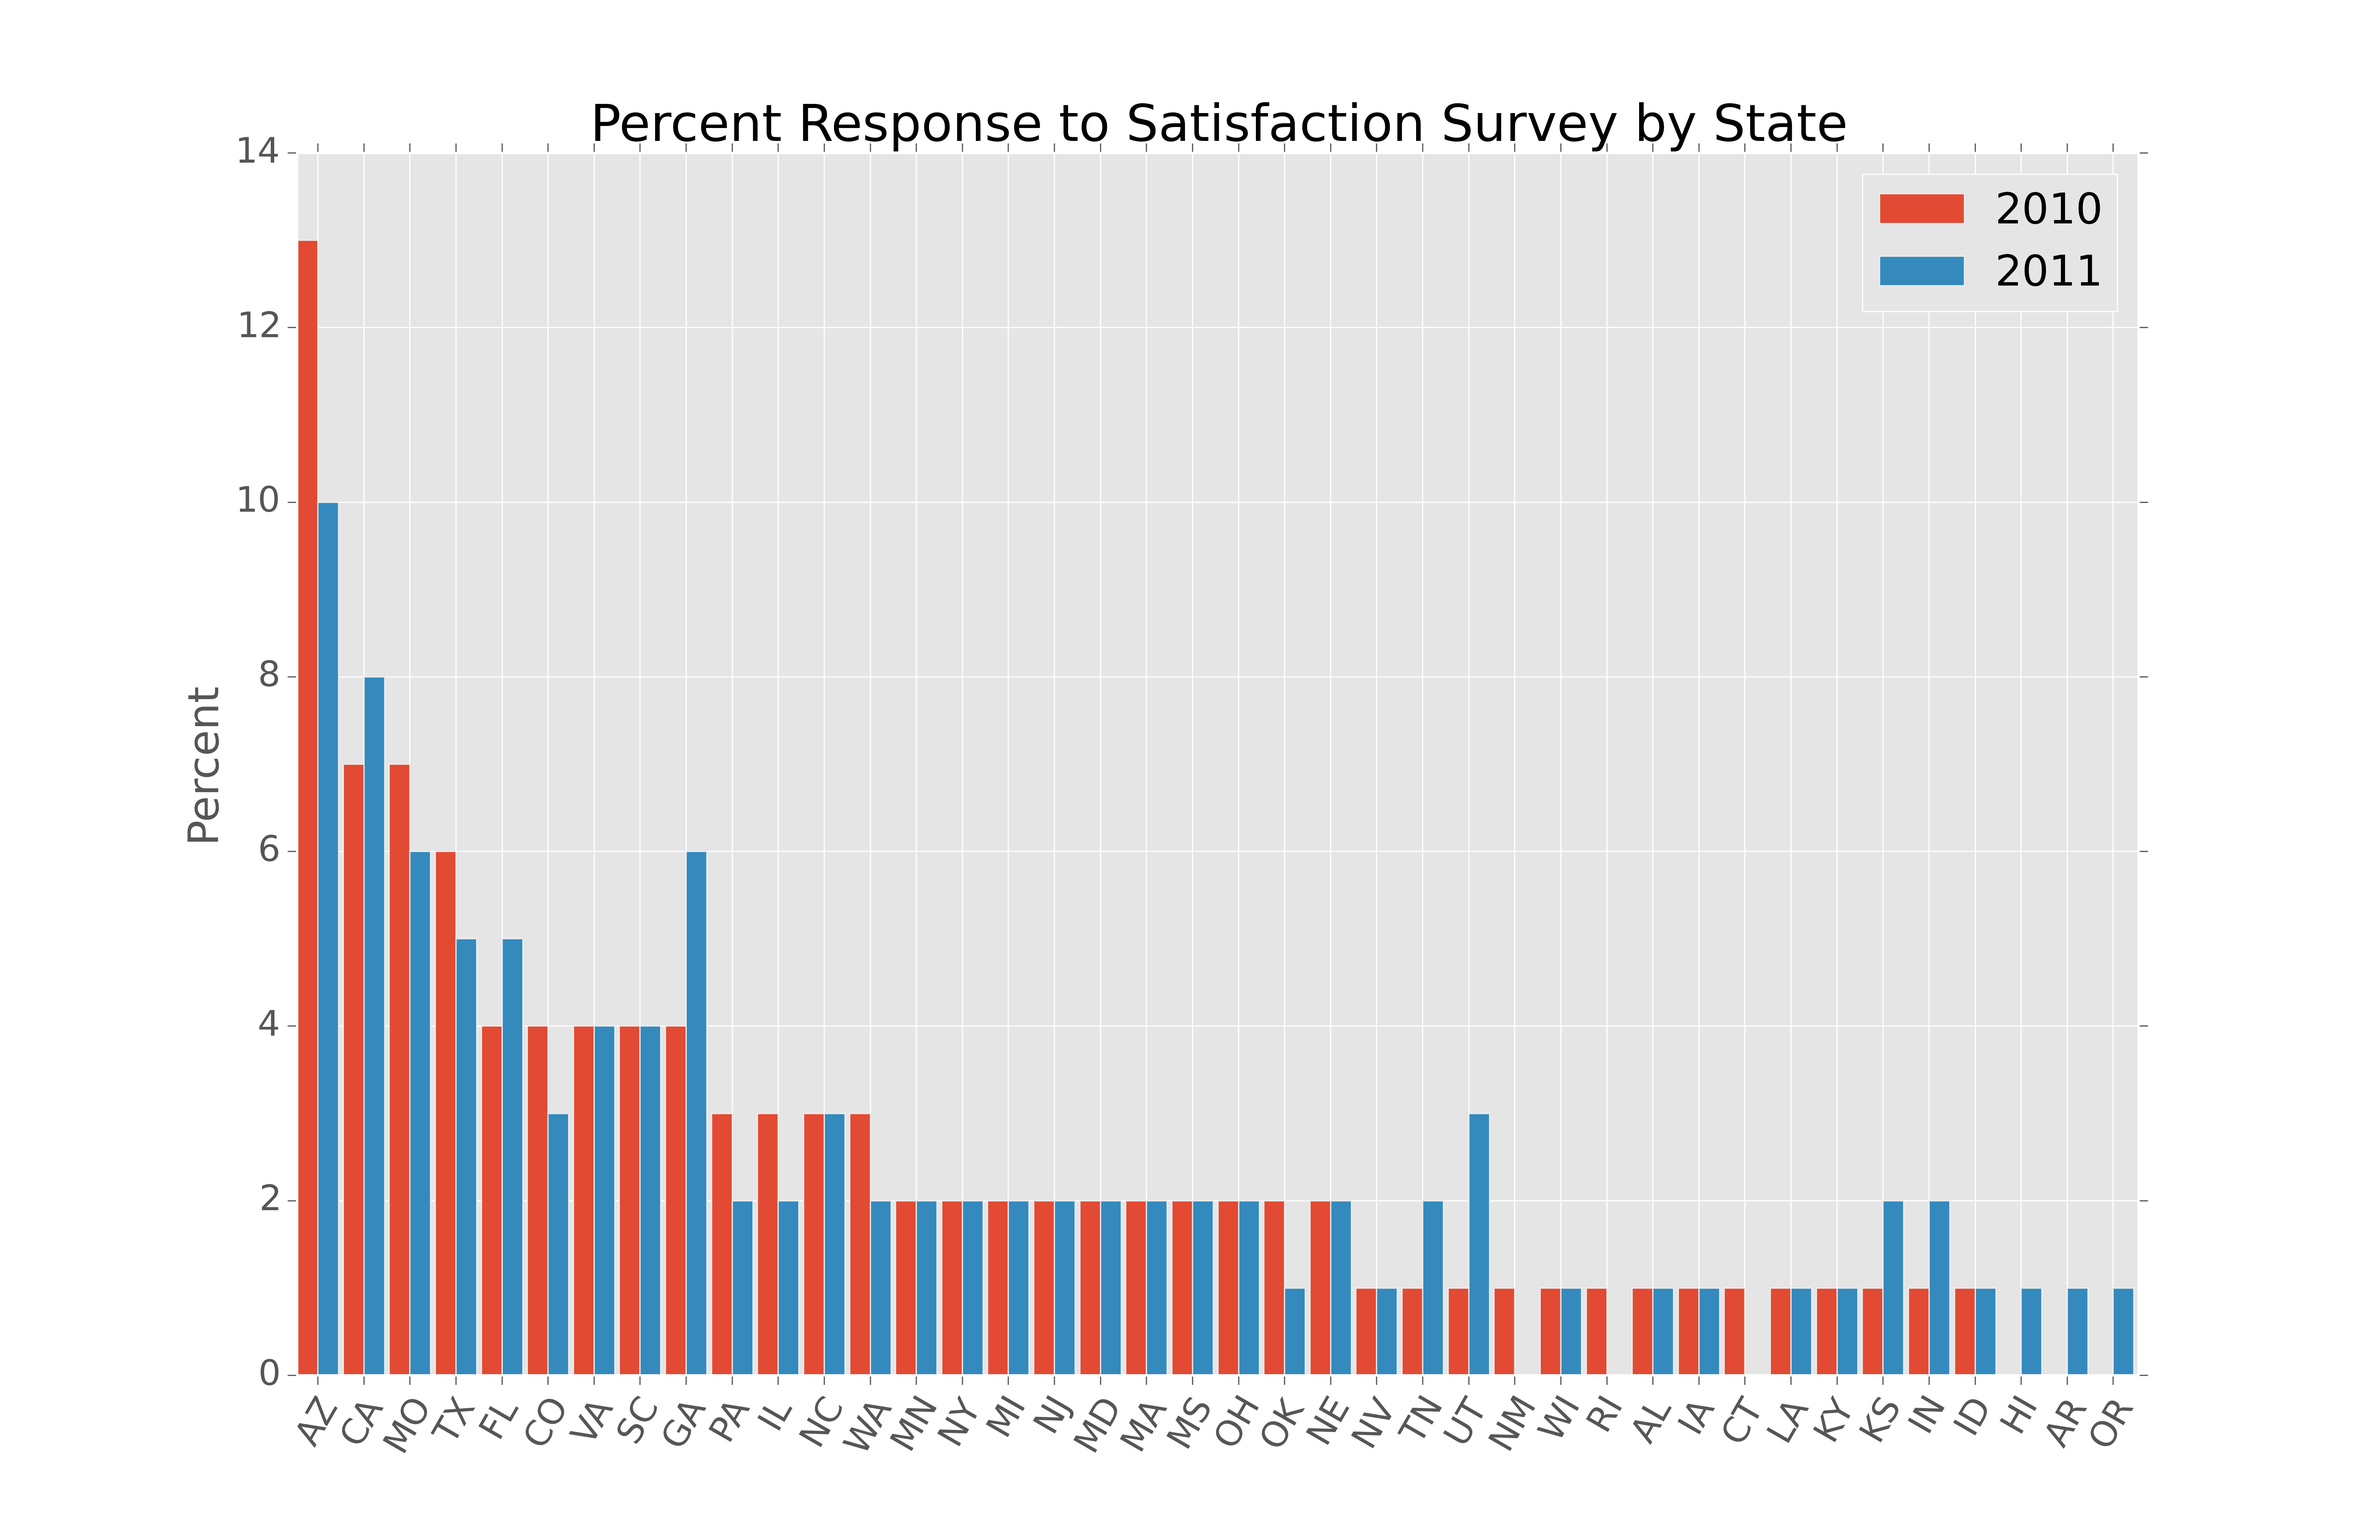
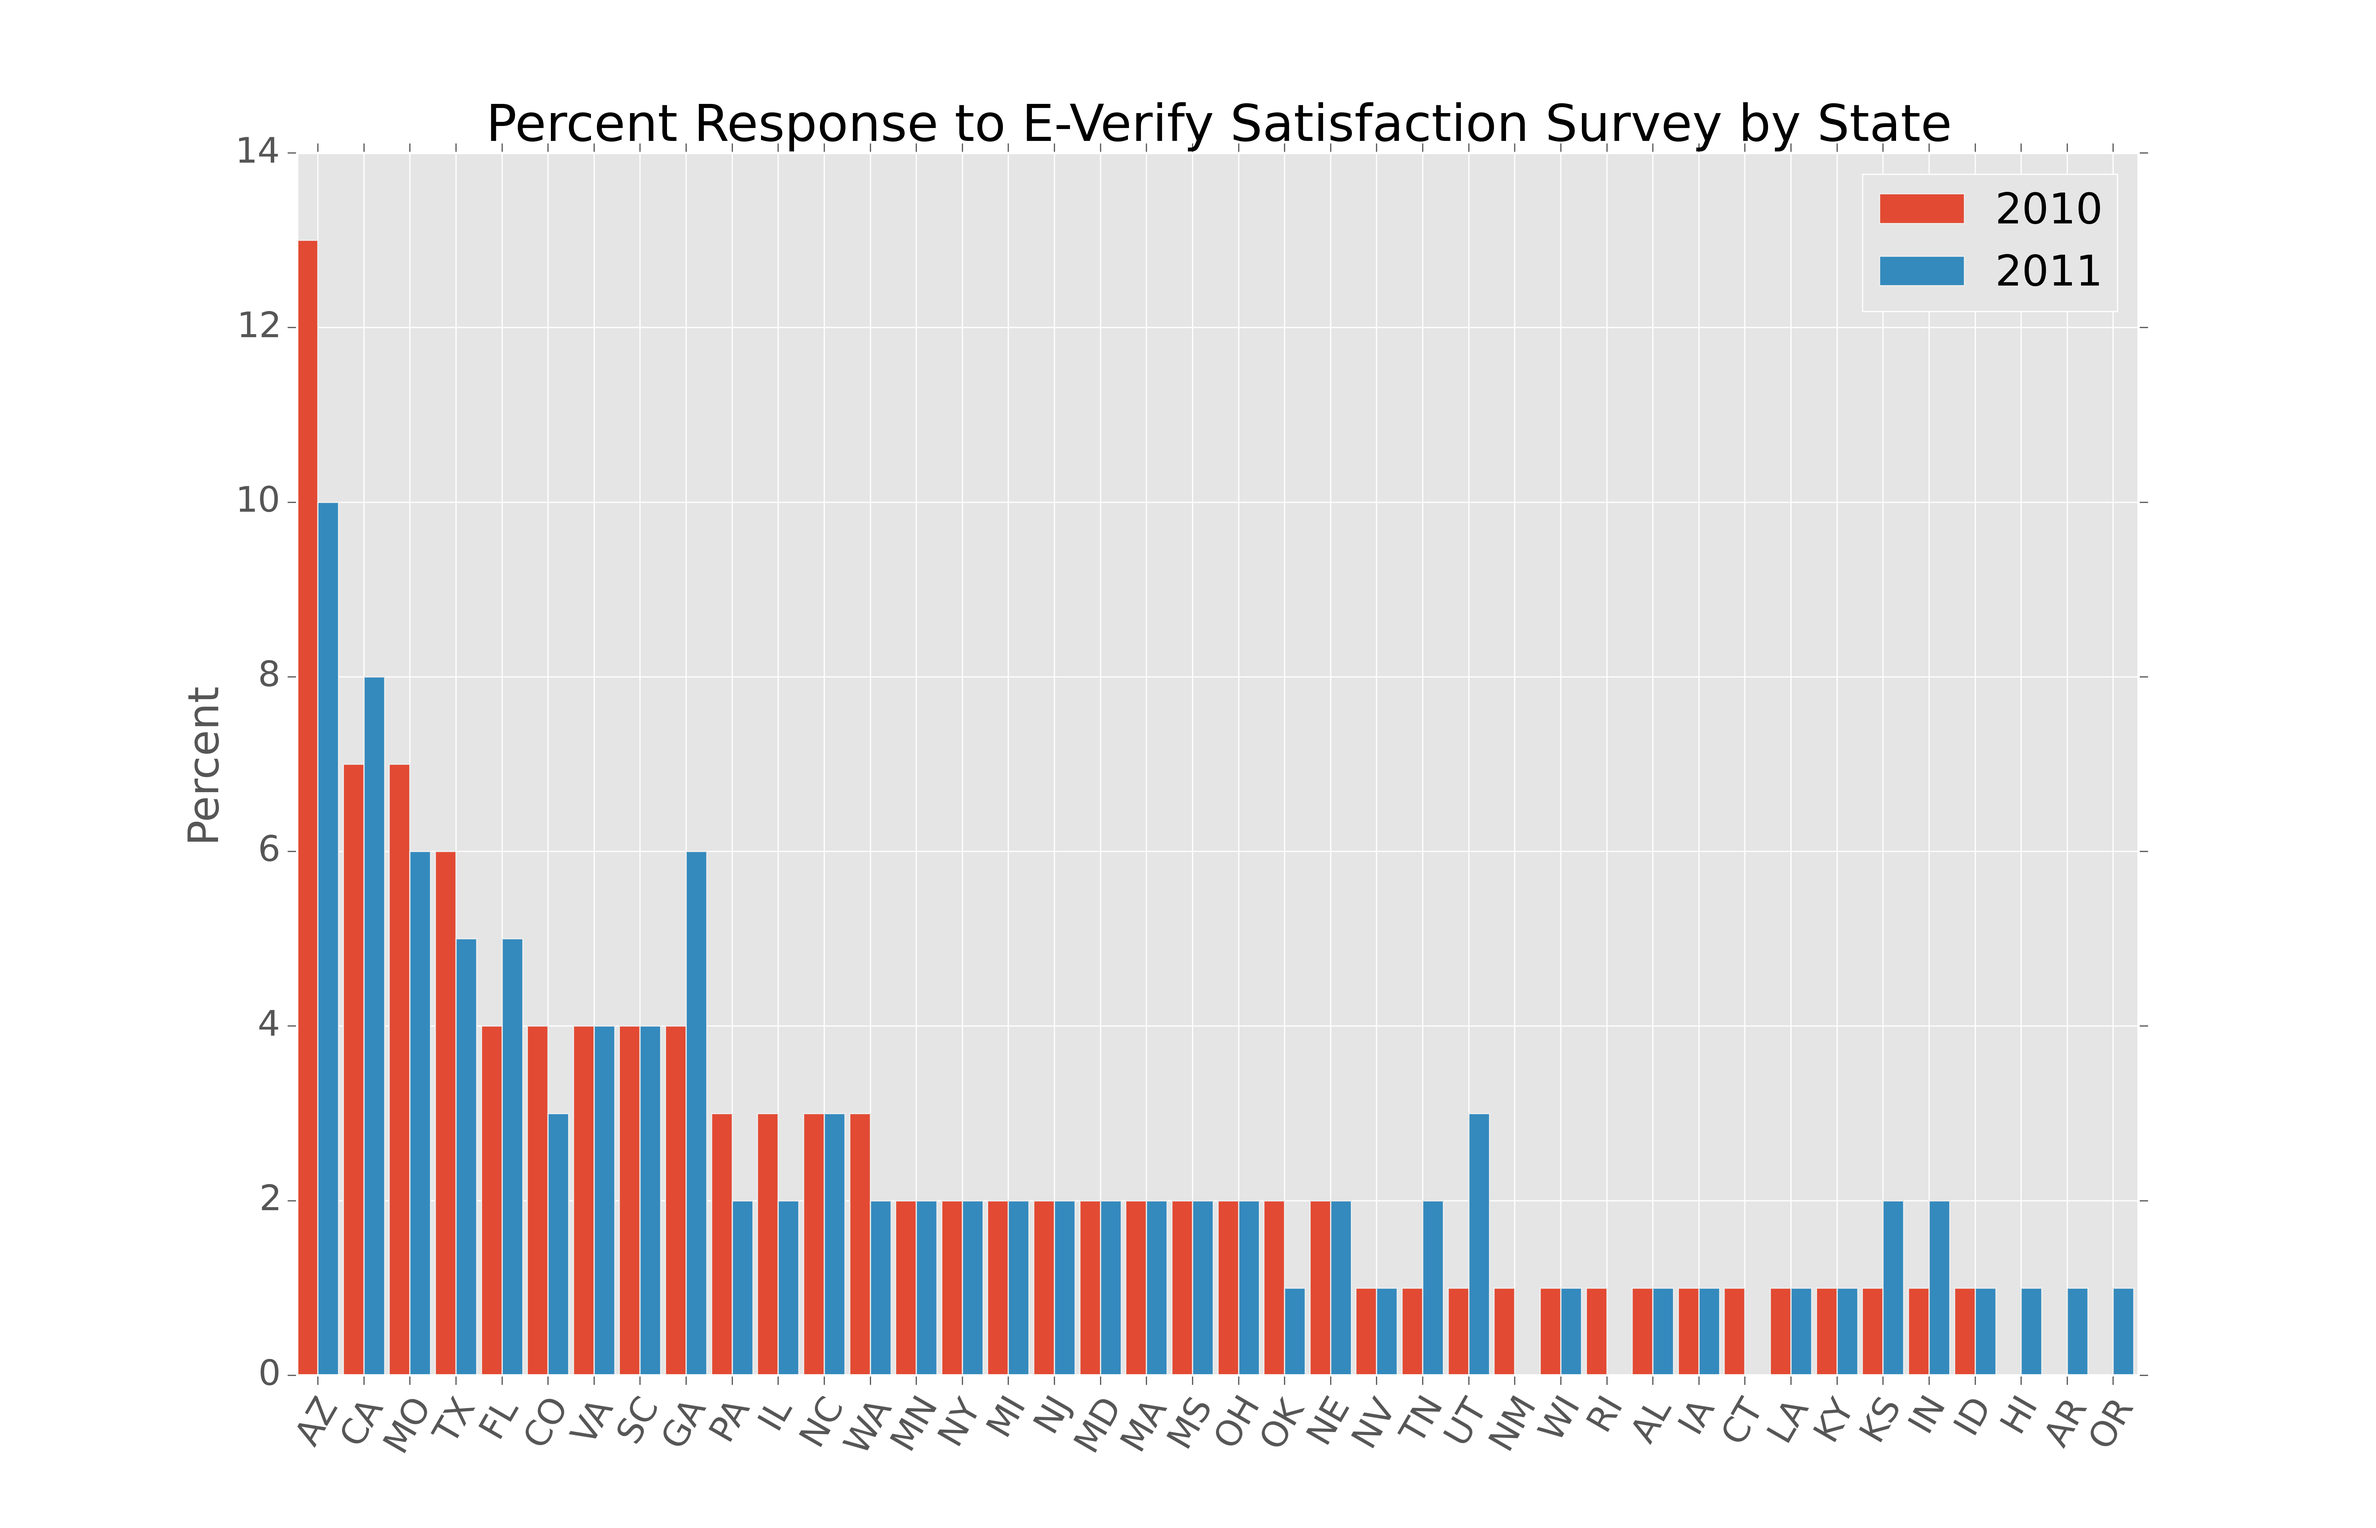
Updates
finalizing things for the first week

Changed region(s): [[0.1869, 0.0622, 0.8409, 0.0933]]

diff --git a/e_verify_graph.py b/e_verify_graph.py
@@ -59,7 +59,7 @@ pct_2010_bar = ax.bar(ind, df['pct_2010'], width, color = plt.rcParams['axes.col
 pct_2011_bar = ax.bar(ind2, df['pct_2011'], width, color = plt.rcParams['axes.color_cycle'][1])
 
 ax.set_ylabel('Percent')
-ax.set_title('Percent Response to Satisfaction Survey by State')
+ax.set_title('Percent Response to E-Verify Satisfaction Survey by State')
 ax.set_xticks(ind2)
 ax.set_xticklabels(states, rotation = 60)
 
